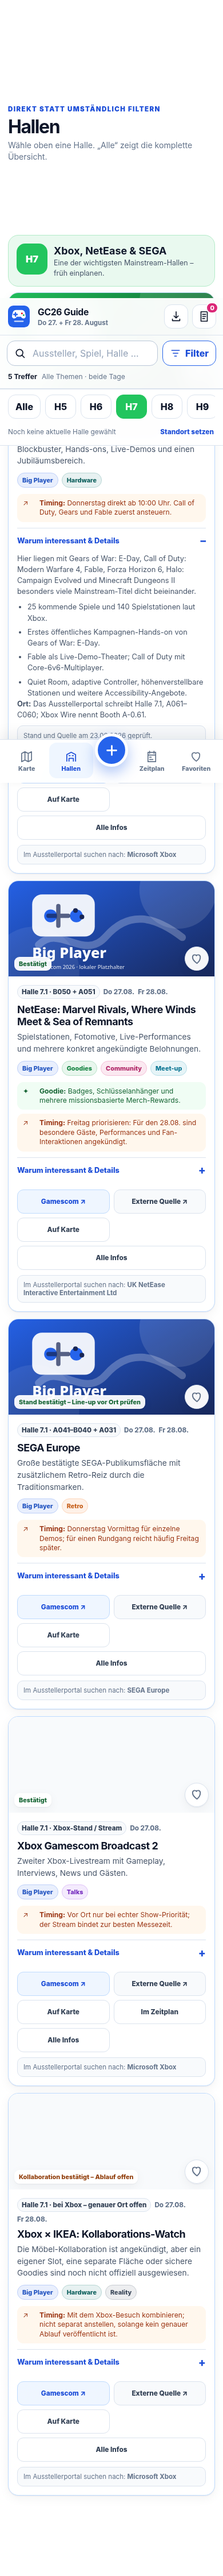
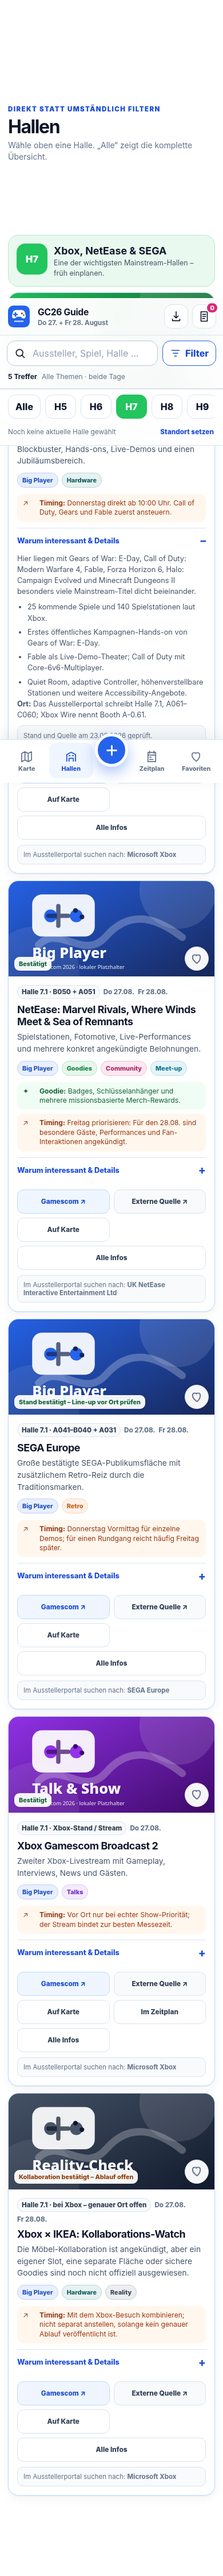
Add files via upload

Changed region(s): [[0.0308, 0.6555, 0.9846, 0.7179], [0.0308, 0.8116, 0.9846, 0.874]]

diff --git a/sw.js b/sw.js
@@ -1,5 +1,5 @@
 /* GC26 Guide service worker – deploy 2026-08-23 */
-const CACHE_VERSION = 'gc26-guide-v3-1-20260823-2';
+const CACHE_VERSION = 'gc26-guide-v3-1-20260823-3';
 const APP_SHELL = [
   './',
   './index.html',

diff --git a/tests/browser_qa.py b/tests/browser_qa.py
@@ -51,9 +51,12 @@ def attach_error_listeners(page) -> None:
 try:
     with sync_playwright() as p:
         browser_type = p.chromium
+        configured_chromium = os.environ.get("GC26_CHROMIUM_PATH")
+        bundled_chromium = Path(p.chromium.executable_path)
+        chromium_path = configured_chromium or (str(bundled_chromium) if bundled_chromium.is_file() else "/usr/bin/chromium")
         context = browser_type.launch_persistent_context(
             user_data_dir=str(USER_DATA),
-            executable_path="/usr/bin/chromium",
+            executable_path=chromium_path,
             headless=True,
             viewport={"width": 390, "height": 844},
             locale="de-DE",
@@ -70,9 +73,9 @@ try:
 
         version = page.evaluate("window.__GC_APP__.version")
         base_count = page.evaluate("window.__GC_APP__.state.baseEntries.length")
-        assert_true(version == "3.1.1", f"Falsche App-Version im Browser: {version}")
+        assert_true(version == "3.1.2", f"Falsche App-Version im Browser: {version}")
         assert_true(base_count == 23, f"Falsche Eintragszahl im Browser: {base_count}")
-        passed("App lädt mit Version 3.1.1 und 23 redaktionellen Einträgen")
+        passed("App lädt mit Version 3.1.2 und 23 redaktionellen Einträgen")
 
         overflow = page.evaluate("document.documentElement.scrollWidth - document.documentElement.clientWidth")
         bg = page.evaluate("getComputedStyle(document.body).backgroundColor")
@@ -82,6 +85,27 @@ try:
         assert_true(page.locator("#home-top-picks .entry-card").count() >= 6, "Mainstream-Top-Picks fehlen")
         shot(page, "mobile-home-v3.png")
         passed("Landingpage ist mobil, weiß und ohne horizontalen Overflow")
+
+        # Decode every locally referenced illustration as a real browser image.
+        image_results = page.evaluate("""async () => {
+          const sources = [...new Set(window.__GC_APP__.state.baseEntries.map(entry => entry.bildUrl))];
+          const results = [];
+          for (const src of sources) {
+            const result = await new Promise(resolve => {
+              const image = new Image();
+              image.onload = () => resolve({src, ok: image.naturalWidth > 0 && image.naturalHeight > 0, width: image.naturalWidth, height: image.naturalHeight});
+              image.onerror = () => resolve({src, ok: false, width: 0, height: 0});
+              image.src = src;
+            });
+            results.push(result);
+          }
+          return results;
+        }""")
+        broken_images = [item for item in image_results if not item["ok"]]
+        assert_true(not broken_images, f"Lokale Illustrationen lassen sich nicht rendern: {broken_images}")
+        assert_true(any(item["src"].endswith("retro.svg") for item in image_results), "retro.svg wurde nicht geprüft")
+        assert_true(any(item["src"].endswith("talk.svg") for item in image_results), "talk.svg wurde nicht geprüft")
+        passed("Alle lokalen Illustrationen einschließlich Retro und Talk werden als Bilder gerendert")
 
         # iOS install help must be available even without beforeinstallprompt.
         page.evaluate("window.__GC_APP__.state.installPrompt = null")
@@ -245,7 +269,7 @@ try:
         # Browser restart without network, using the same profile.
         offline_context = browser_type.launch_persistent_context(
             user_data_dir=str(USER_DATA),
-            executable_path="/usr/bin/chromium",
+            executable_path=chromium_path,
             headless=True,
             viewport={"width": 390, "height": 844},
             locale="de-DE",

diff --git a/tests/validate_repo.py b/tests/validate_repo.py
@@ -5,6 +5,7 @@ from __future__ import annotations
 import json
 import re
 import sys
+import xml.etree.ElementTree as ET
 from pathlib import Path
 from urllib.parse import urlparse
 
@@ -49,10 +50,20 @@ for rel in required_files:
     require((ROOT / rel).is_file(), f"Pflichtdatei fehlt: {rel}")
 ok("Pflichtdateien vorhanden")
 
+# Every SVG must be valid XML. Browsers otherwise show an embedded-code error.
+svg_files = sorted(ROOT.rglob("*.svg"))
+require(bool(svg_files), "Keine SVG-Dateien gefunden")
+for svg_path in svg_files:
+    try:
+        ET.parse(svg_path)
+    except ET.ParseError as exc:
+        errors.append(f"Ungültiges SVG/XML {svg_path.relative_to(ROOT)}: {exc}")
+ok("Alle lokalen SVG-Dateien sind gültiges XML")
+
 # JSON and schema
 schema_validate(DATA, SCHEMA)
-require(DATA["meta"]["version"] == "3.1.1", "Unerwartete App-Version")
-require(DATA["meta"]["dataVersion"] == "2026-08-23.5", "Unerwartete Datenversion")
+require(DATA["meta"]["version"] == "3.1.2", "Unerwartete App-Version")
+require(DATA["meta"]["dataVersion"] == "2026-08-23.6", "Unerwartete Datenversion")
 require(len(DATA["entries"]) >= 20, "Zu wenige redaktionelle Einträge")
 ok("JSON-Daten und Schema lesbar")
 

diff --git a/QA_REPORT.md b/QA_REPORT.md
@@ -1,19 +1,34 @@
-# Abschlussprüfung – GC26 Guide 3.1.1
+# Abschlussprüfung – GC26 Guide 3.1.2
 
 Prüfdatum: **23. August 2026**  
-Datenversion: **2026-08-23.5**  
+Datenversion: **2026-08-23.6**  
 Ergebnis: **bestanden**
 
 ## Zusammenfassung
 
-Die Anwendung wurde als statisches GitHub-Pages-Projekt, mobile Web-App und offline startfähige PWA geprüft. Der finale Datenbestand enthält **23 redaktionelle Einträge** und **25 eindeutige externe Ziel-URLs**.
+Die Anwendung wurde als statisches GitHub-Pages-Projekt, mobile Web-App und offline startfähige PWA geprüft. Der Datenbestand enthält **23 redaktionelle Einträge** und **25 eindeutige externe Ziel-URLs**.
 
-- statische Struktur- und Datenprüfung: **10 von 10 Prüfgruppen bestanden**
-- mobiler Browser- und Interaktionstest: **15 von 15 Prüfgruppen bestanden**
+- statische Struktur-, Daten- und SVG-Prüfung: **11 von 11 Prüfgruppen bestanden**
+- lokale SVG-Dateien: **12 von 12 als gültiges XML geparst**
+- mobiler Browser- und Interaktionstest: **16 von 16 Prüfgruppen bestanden**
+- sämtliche in den Daten referenzierten Illustrationen im Browser geladen und dekodiert: **bestanden**
 - Offline-Neustart mit demselben Browserprofil und vollständig deaktiviertem Netzwerk: **bestanden**
 - bekannte 404-Ziele im ausgelieferten Datenbestand: **0**
 - Smartphone-Testbreite: **390 × 844 Pixel**
 - vollständiger Browser- und Offline-Test unter einem GitHub-Pages-typischen Projekt-Unterpfad: **bestanden**
+
+## Behobener SVG-Fehler
+
+In `assets/illustrations/retro.svg` enthielten Titel und sichtbarer Text ein nicht maskiertes `&`. Das ist in XML ungültig und führte beim direkten Öffnen beziehungsweise Einbetten zu **„Error rendering embedded code – Invalid image source“**. Derselbe Fehler bestand außerdem in `assets/illustrations/talk.svg`.
+
+Beide Dateien verwenden nun korrekt `&amp;`. Zusätzlich wurde die Service-Worker-Cache-Version erhöht, damit bereits installierte Fassungen die reparierten Grafiken beim nächsten Online-Aufruf übernehmen.
+
+Der Fehler wird nun doppelt abgesichert:
+
+1. `tests/validate_repo.py` parst sämtliche lokalen SVG-Dateien als XML.
+2. `tests/browser_qa.py` lädt jede in `data/data.json` referenzierte Illustration als echtes Browserbild und prüft ihre natürlichen Abmessungen.
+
+Ein zusätzlich erzeugter Rendering-Nachweis liegt unter [`assets/qa/retro-svg-render-v3-1-2.png`](./assets/qa/retro-svg-render-v3-1-2.png).
 
 ## Statische Prüfung
 
@@ -27,25 +42,31 @@ node --check js/app.js
 Geprüft wurden:
 
 1. vollständige Pflichtdateien und Ordnerstruktur
-2. gültiges JSON und Schema
-3. Big Player, Nintendo, Indie, Retro, Community und Reality-Checks
-4. Pflichtlinks, Bilder, Besuchstage und Kartenpositionen jedes Eintrags
-5. der vorgegebene Spielwissenschafts-Talk mit Datum, Zeit und Stage D
-6. vollständige Abdeckung aller Ziel-URLs im Link-Audit
-7. Manifest, Apple-Touch-Icon und PWA-Icons
-8. vollständige App-Shell im Service Worker
-9. iOS-Meta-Tags und Ausschluss der früheren fehlerhaften Gamescom-URL-Struktur
-10. ausschließlich relative interne Pfade für GitHub-Pages-Unterverzeichnisse
+2. gültiges XML sämtlicher lokaler SVG-Dateien
+3. gültiges JSON und Schema
+4. Big Player, Nintendo, Indie, Retro, Community und Reality-Checks
+5. Pflichtlinks, Bilder, Besuchstage und Kartenpositionen jedes Eintrags
+6. der vorgegebene Spielwissenschafts-Talk mit Datum, Zeit und Stage D
+7. vollständige Abdeckung aller Ziel-URLs im Link-Audit
+8. Manifest, Apple-Touch-Icon und PWA-Icons
+9. vollständige App-Shell im Service Worker
+10. iOS-Meta-Tags und Ausschluss der früheren fehlerhaften Gamescom-URL-Struktur
+11. ausschließlich relative interne Pfade für GitHub-Pages-Unterverzeichnisse
 
 Maschinenlesbares Ergebnis: [`data/static-validation.json`](./data/static-validation.json)
 
 ## Browser- und Offline-Prüfung
 
-Der automatisierte Test verwendet Chromium über Playwright, eine mobile Viewportgröße von 390 × 844 Pixel, die Zeitzone `Europe/Berlin` und einen vollständig neuen Browser-Speicherbereich. Der finale Lauf wurde gegen die **exakt wieder entpackten Bytes des Deploy-ZIPs** unter `http://127.0.0.1:8766/gamescom-guide-2026-v3-1-1-verify/deploy/` ausgeführt – also unter demselben Unterpfad-Prinzip wie ein GitHub-Pages-Projektrepository.
+Der automatisierte Test verwendet Chromium über Playwright, eine mobile Viewportgröße von 390 × 844 Pixel, die Zeitzone `Europe/Berlin` und einen vollständig neuen Browser-Speicherbereich. Der finale Lauf wurde gegen die **exakt wieder entpackten Bytes des Deploy-ZIPs** unter
+
+`http://127.0.0.1:8767/gamescom-guide-2026-v3-1-2-verify/deploy/`
+
+ausgeführt – also unter demselben Unterpfad-Prinzip wie ein GitHub-Pages-Projektrepository.
 
 Abgedeckt sind unter anderem:
 
 - Landingpage, Hallenüberblick und weißes Layout ohne horizontalen Seiten-Overflow
+- tatsächliches Browser-Rendering aller lokalen Illustrationen, ausdrücklich einschließlich `retro.svg` und `talk.svg`
 - direkte Hallenwahl H5 bis H10 und Confex
 - einklappbare Detailbereiche
 - Favoriten, hervorgehobene Kartenmarker und Favoriten-Fokusmodus
@@ -62,10 +83,6 @@ Abgedeckt sind unter anderem:
 
 Maschinenlesbares Ergebnis: [`data/browser-qa.json`](./data/browser-qa.json)  
 Ausführlicher Bericht: [`QA_BROWSER.md`](./QA_BROWSER.md)
-
-## Korrigierter Offline-Randfall
-
-Bei einem abschließenden Wiederholungstest zeigte sich nach einem kalten Offline-Start ein zeitlicher Zwischenzustand, in dem die Kartendaten bereits geladen waren, der Hash-Wechsel zur Kartenansicht aber noch auf das nächste Browserereignis wartete. Die Navigation rendert die Zielansicht jetzt sofort und zusätzlich beim regulären `hashchange`. Der Offline-Test wartet außerdem explizit auf die Marker-Darstellung. Der vollständige Testlauf wurde danach erneut erfolgreich ausgeführt.
 
 ## Quellen- und Linkprüfung
 

diff --git a/QA_BROWSER.md b/QA_BROWSER.md
@@ -1,8 +1,8 @@
 # Mobiler Browser- und Offline-Test
 
 Prüfdatum: **23. August 2026**  
-App-Version: **3.1.1**  
-Ergebnis: **15 von 15 Prüfgruppen bestanden**
+App-Version: **3.1.2**  
+Ergebnis: **16 von 16 Prüfgruppen bestanden**
 
 ## Testumgebung
 
@@ -16,26 +16,35 @@ Ergebnis: **15 von 15 Prüfgruppen bestanden**
 | Testkoordinaten | 50.9469, 6.9833 |
 | Speicher | neues temporäres Browserprofil |
 | Testobjekt | exakt entpacktes Deploy-ZIP |
-| URL-Struktur | Projekt-Unterpfad `/gamescom-guide-2026-v3-1-1-verify/deploy/` |
+| URL-Struktur | Projekt-Unterpfad `/gamescom-guide-2026-v3-1-2-verify/deploy/` |
 | Offline-Test | Browser geschlossen, mit demselben Profil neu gestartet, Netzwerk deaktiviert |
 
 ## Bestandene Prüfgruppen
 
-1. App lädt mit Version 3.1.1 und 23 redaktionellen Einträgen.
+1. App lädt mit Version 3.1.2 und 23 redaktionellen Einträgen.
 2. Landingpage ist mobil, weiß und ohne horizontalen Seiten-Overflow.
-3. Die iOS-Installationshilfe ist auch ohne Chromium-Installationsprompt erreichbar.
-4. Direkte Hallenwahl und einklappbare Detailinformationen funktionieren.
-5. Favoritenmarker, Fokusmodus und Tastaturbedienung der Karte funktionieren.
-6. Der manuelle Indoor-Standort-Fallback funktioniert.
-7. Eigene Einträge erscheinen lokal, als Favorit und auf der Karte.
-8. Notizblock, Bearbeiten und JSON-Export funktionieren.
-9. Favoriten, aktuelle Halle und Notizen bleiben nach Reload erhalten.
-10. Der Live-Zeitplan erkennt laufende Termine und hält Talks kompakt.
-11. Der Deep-Link vom Zeitplan zur fokussierten Kartenposition funktioniert.
-12. Der Favoriten-Tab gruppiert Inhalte und bietet die relevanten Aktionen.
-13. Freitextsuche, Trefferzähler und Ein-Klick-Reset funktionieren.
-14. Der Service Worker kontrolliert die App und cached die vollständige App-Shell.
-15. Die App startet nach echtem Browser-Neustart offline mit Karte, Daten, Favoriten und Notizen.
+3. Alle lokalen Illustrationen einschließlich Retro und Talk werden als Bilder gerendert.
+4. Die iOS-Installationshilfe ist auch ohne Chromium-Installationsprompt erreichbar.
+5. Direkte Hallenwahl und einklappbare Detailinformationen funktionieren.
+6. Favoritenmarker, Fokusmodus und Tastaturbedienung der Karte funktionieren.
+7. Der manuelle Indoor-Standort-Fallback funktioniert.
+8. Eigene Einträge erscheinen lokal, als Favorit und auf der Karte.
+9. Notizblock, Bearbeiten und JSON-Export funktionieren.
+10. Favoriten, aktuelle Halle und Notizen bleiben nach Reload erhalten.
+11. Der Live-Zeitplan erkennt laufende Termine und hält Talks kompakt.
+12. Der Deep-Link vom Zeitplan zur fokussierten Kartenposition funktioniert.
+13. Der Favoriten-Tab gruppiert Inhalte und bietet die relevanten Aktionen.
+14. Freitextsuche, Trefferzähler und Ein-Klick-Reset funktionieren.
+15. Der Service Worker kontrolliert die App und cached die vollständige App-Shell.
+16. Die App startet nach echtem Browser-Neustart offline mit Karte, Daten, Favoriten und Notizen.
+
+## SVG-Rendering
+
+Der Test lädt alle eindeutigen `bildUrl`-Werte des redaktionellen Datenbestands in jeweils ein echtes `Image`-Objekt. Er gilt nur als bestanden, wenn `onload` ausgelöst wird und `naturalWidth` sowie `naturalHeight` größer als null sind. Dadurch werden syntaktisch beschädigte SVG-Dateien nicht mehr nur als vorhandene Datei, sondern als tatsächlich renderbares Bild geprüft.
+
+Zusätzlicher Rendering-Nachweis:
+
+- [`assets/qa/retro-svg-render-v3-1-2.png`](./assets/qa/retro-svg-render-v3-1-2.png)
 
 ## Smartphone-Screenshots
 
@@ -52,8 +61,8 @@ Ergebnis: **15 von 15 Prüfgruppen bestanden**
 Bei lokal laufendem Server:
 
 ```bash
-python3 -m http.server 8766 --directory /mnt/data
-GC26_BASE_URL=http://127.0.0.1:8766/gamescom-guide-2026-v3-1-1-verify/deploy/ python3 tests/browser_qa.py
+python3 -m http.server 8767 --directory /mnt/data
+GC26_BASE_URL=http://127.0.0.1:8767/gamescom-guide-2026-v3-1-2-verify/deploy/ python3 tests/browser_qa.py
 ```
 
-Das ausführbare Testergebnis wird nach jedem Lauf nach [`data/browser-qa.json`](./data/browser-qa.json) geschrieben. Testexporte und temporäre Browserprofile werden automatisch entfernt.
+Optional kann mit `GC26_CHROMIUM_PATH` ein konkretes Chromium-Binary angegeben werden. Das ausführbare Testergebnis wird nach jedem Lauf nach [`data/browser-qa.json`](./data/browser-qa.json) geschrieben. Testexporte und temporäre Browserprofile werden automatisch entfernt.

diff --git a/PACKAGE_REPORT.md b/PACKAGE_REPORT.md
@@ -1,17 +1,20 @@
-# Paketprüfung
+# Paketprüfung – Version 3.1.2
 
 Prüfdatum: **23. August 2026**
 
 ## Auslieferungen
 
-- **Komplettes Repo:** Anwendung, Daten, lokale Assets, Dokumentation, Tests, QA-Ergebnisse und Smartphone-Screenshots
-- **Deploy-Paket:** direkt veröffentlichbare Anwendung ohne Testskripte und QA-Screenshots
-- **TAR.GZ:** vollständige Alternative zum ZIP-Format
+- **Deploy-ZIP:** direkt veröffentlichbare Anwendung mit `index.html` im Archiv-Root
+- **Komplettes Repo-ZIP:** Anwendung, Daten, lokale Assets, Dokumentation, Tests, QA-Ergebnisse und Smartphone-Screenshots
+- **Komplettes TAR.GZ:** vollständige Alternative zum ZIP-Format
 - **Teilarchive:** App/Code/Daten, Assets sowie Dokumentation/Tests getrennt für robuste Downloads
+- **Einzeldatei:** korrigiertes `retro.svg`
 
 ## Umfang
 
-Das vollständige Repo enthält **47 Dateien** vor der Archivierung.
+- Deploy-Paket: **32 Dateien**
+- Komplettes Repo: **48 Dateien**
+- Lokale SVG-Dateien: **12**
 
 ## Paketkriterien
 
@@ -19,10 +22,13 @@ Das vollständige Repo enthält **47 Dateien** vor der Archivierung.
 - Es gibt keinen zusätzlichen übergeordneten Projektordner im Archiv.
 - Alle Pfade sind relativ und für GitHub-Pages-Projekt-Unterpfade geeignet.
 - Es sind keine symbolischen Links, temporären Testexporte, Python-Caches oder Betriebssystem-Metadaten enthalten.
+- Alle zwölf SVG-Dateien werden nach dem Entpacken als XML geparst.
 - Das vollständige ZIP wird mit `unzip -t` geprüft.
 - Das TAR.GZ wird vollständig aufgelistet und testweise extrahiert.
-- Das Deploy-ZIP wird in einen leeren Ordner extrahiert und dort erneut mit der statischen Prüfung validiert.
-- Das exakt entpackte Deploy-ZIP wird anschließend unter einem Projekt-Unterpfad im mobilen Browser geprüft, einschließlich Service Worker und Offline-Neustart.
+- Das Deploy-ZIP wird in einen leeren Ordner extrahiert.
+- Das exakt entpackte Deploy-ZIP wird anschließend unter einem Projekt-Unterpfad im mobilen Browser geprüft, einschließlich Illustration-Rendering, Service Worker und Offline-Neustart.
 - SHA-256-Prüfsummen werden außerhalb des Repo-Verzeichnisses in einer separaten Datei ausgeliefert.
 
-Die konkreten Archivgrößen und Prüfsummen stehen in `gamescom-2026-guide-v3-checksums.txt` neben den Downloads.
+## Konkrete Fehlerabsicherung
+
+Der zuvor fehlerhafte Text `Retro & Arcade` liegt in der SVG-Datei nun XML-konform als `Retro &amp; Arcade` vor. Dieselbe Korrektur wurde in `talk.svg` vorgenommen. Der statische Validator und der Browser-Test schlagen künftig fehl, sobald eine lokale SVG-Datei nicht mehr geparst oder als Bild dekodiert werden kann.

diff --git a/README.md b/README.md
@@ -1,6 +1,6 @@
 # GC26 Guide – Gamescom 2026 für Donnerstag und Freitag
 
-**Finale geprüfte Version: 3.1.1 · Datenstand 23. August 2026**
+**Finale geprüfte Version: 3.1.2 · Datenstand 23. August 2026**
 
 Ein statischer, mobile-first Gamescom-Guide für **Donnerstag, 27. August 2026**, und **Freitag, 28. August 2026** in der Koelnmesse. Die App läuft ohne Framework und Build-Step auf GitHub Pages und kann nach einem vollständigen Online-Aufruf weitgehend offline genutzt werden.
 
@@ -58,13 +58,13 @@ Das offizielle Gamescom-Ausstellerportal arbeitet dynamisch. Deshalb führen die
 In [`sw.js`](./sw.js) den Wert von `CACHE_VERSION` erhöhen, zum Beispiel von:
 
 ```js
-const CACHE_VERSION = 'gc26-guide-v3-1-20260823-2';
+const CACHE_VERSION = 'gc26-guide-v3-1-20260823-3';
 ```
 
 auf:
 
 ```js
-const CACHE_VERSION = 'gc26-guide-v3-1-20260823-3';
+const CACHE_VERSION = 'gc26-guide-v3-1-20260823-4';
 ```
 
 Beim nächsten Online-Aufruf installiert der Browser den neuen Cache und entfernt ältere App-Caches.
@@ -97,7 +97,7 @@ python3 tests/validate_repo.py
 python3 tests/browser_qa.py
 ```
 
-Der Browser-Test verwendet Playwright und Chromium. Die fertigen Prüfberichte und Smartphone-Screenshots liegen in `QA_REPORT.md`, `data/browser-qa.json` und `assets/qa/`.
+Der Browser-Test verwendet Playwright und Chromium. Die statische Prüfung validiert zusätzlich jede lokale SVG-Datei als XML; der Browser-Test lädt alle referenzierten Illustrationen als echte Bilder. Die fertigen Prüfberichte und Smartphone-Screenshots liegen in `QA_REPORT.md`, `data/browser-qa.json` und `assets/qa/`.
 
 ## Datenschutz
 

diff --git a/CHANGELOG.md b/CHANGELOG.md
@@ -1,5 +1,15 @@
 # Änderungsprotokoll
 
+## 3.1.2 – 23. August 2026
+
+### Grafik- und Cache-Fix
+
+- ungültige XML-Zeichen in `assets/illustrations/retro.svg` korrigiert (`&` → `&amp;`)
+- denselben bislang unbemerkten XML-Fehler in `assets/illustrations/talk.svg` korrigiert
+- Service-Worker-Cache auf eine neue Version erhöht, damit bereits installierte Apps die reparierten Grafiken laden
+- statischen XML-Test für sämtliche lokalen SVG-Dateien ergänzt
+- Browser-Test ergänzt, der alle in den Daten referenzierten Illustrationen tatsächlich als Bilder lädt und deren Abmessungen prüft
+
 ## 3.1.1 – 23. August 2026
 
 ### Quellen und Inhalte
